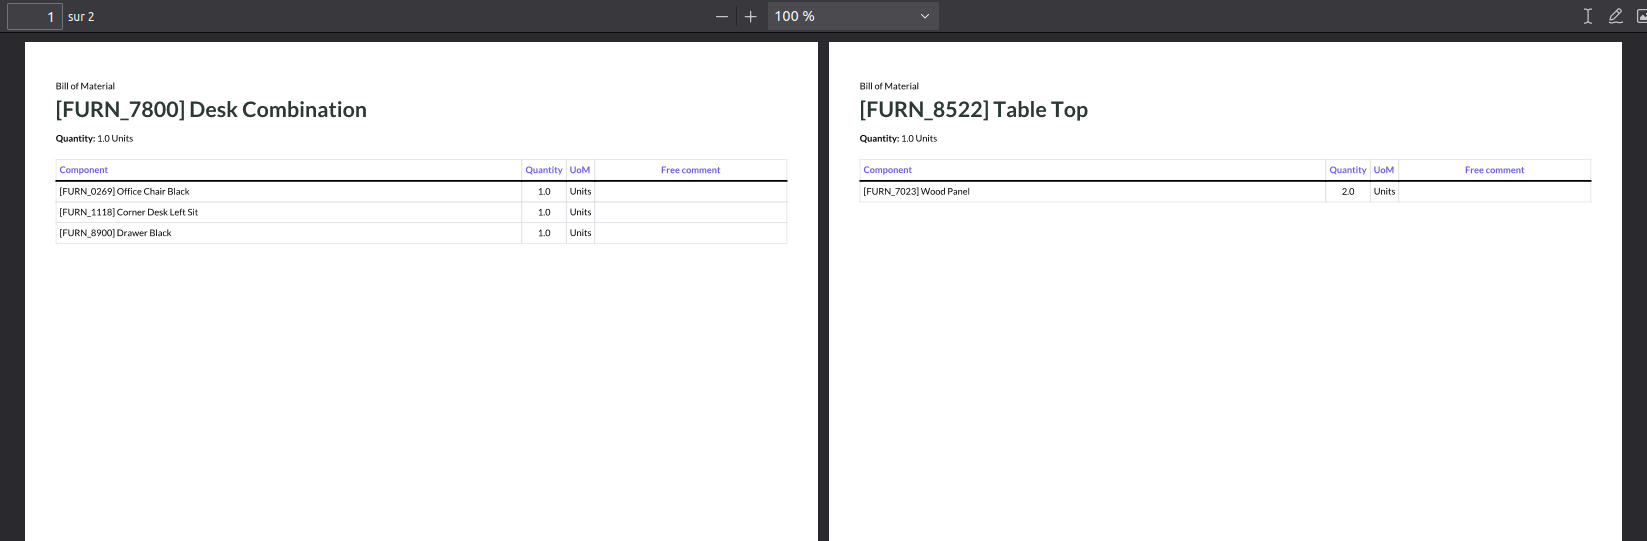
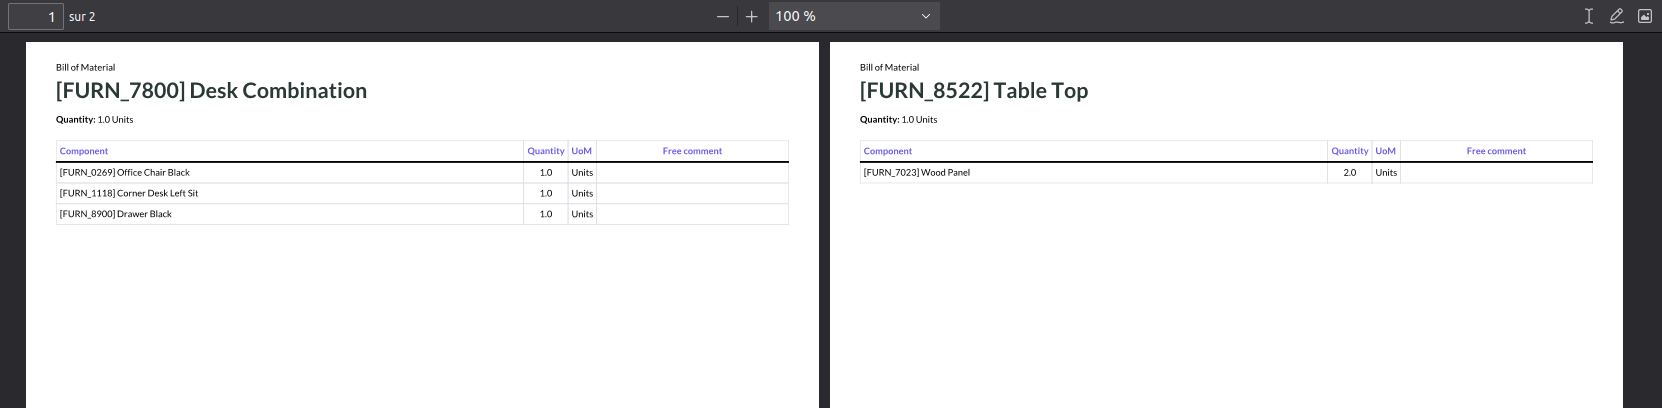
IMP remove custom paperformat

Changed region(s): [[0.0, 0.0, 1.0, 1.0], [0.3097, 0.4706, 0.3716, 0.5588]]

diff --git a/mrp_bom_simple_report/static/description/index.html b/mrp_bom_simple_report/static/description/index.html
@@ -367,7 +367,7 @@ ul.auto-toc {
 !! This file is generated by oca-gen-addon-readme !!
 !! changes will be overwritten.                   !!
 !!!!!!!!!!!!!!!!!!!!!!!!!!!!!!!!!!!!!!!!!!!!!!!!!!!!
-!! source digest: sha256:7881f2fba33177408e347a6bcad52aaf3e38b96134a3032f7b9775e2a49f570c
+!! source digest: sha256:1a4344b8ba7251e08e7d5fc71dc2691e38d29d863d74e14619aed9e08b8d9782
 !!!!!!!!!!!!!!!!!!!!!!!!!!!!!!!!!!!!!!!!!!!!!!!!!!!! -->
 <p><a class="reference external image-reference" href="https://odoo-community.org/page/development-status"><img alt="Beta" src="https://img.shields.io/badge/maturity-Beta-yellow.png" /></a> <a class="reference external image-reference" href="http://www.gnu.org/licenses/agpl-3.0-standalone.html"><img alt="License: AGPL-3" src="https://img.shields.io/badge/licence-AGPL--3-blue.png" /></a> <a class="reference external image-reference" href="https://github.com/OCA/manufacture/tree/16.0/mrp_bom_simple_report"><img alt="OCA/manufacture" src="https://img.shields.io/badge/github-OCA%2Fmanufacture-lightgray.png?logo=github" /></a> <a class="reference external image-reference" href="https://translation.odoo-community.org/projects/manufacture-16-0/manufacture-16-0-mrp_bom_simple_report"><img alt="Translate me on Weblate" src="https://img.shields.io/badge/weblate-Translate%20me-F47D42.png" /></a> <a class="reference external image-reference" href="https://runboat.odoo-community.org/builds?repo=OCA/manufacture&amp;target_branch=16.0"><img alt="Try me on Runboat" src="https://img.shields.io/badge/runboat-Try%20me-875A7B.png" /></a></p>
 <p>Adds a PDF report to print BoM(s) in a very simple way.</p>
@@ -418,6 +418,8 @@ If you spotted it first, help us to smash it by providing a detailed and welcome
 <p>OCA, or the Odoo Community Association, is a nonprofit organization whose
 mission is to support the collaborative development of Odoo features and
 promote its widespread use.</p>
+<p>Current <a class="reference external" href="https://odoo-community.org/page/maintainer-role">maintainer</a>:</p>
+<p><a class="reference external image-reference" href="https://github.com/quentinDupont"><img alt="quentinDupont" src="https://github.com/quentinDupont.png?size=40px" /></a></p>
 <p>This module is part of the <a class="reference external" href="https://github.com/OCA/manufacture/tree/16.0/mrp_bom_simple_report">OCA/manufacture</a> project on GitHub.</p>
 <p>You are welcome to contribute. To learn how please visit <a class="reference external" href="https://odoo-community.org/page/Contribute">https://odoo-community.org/page/Contribute</a>.</p>
 </div>

diff --git a/mrp_bom_simple_report/static/src/scss/mrp_bom_simple_report.scss b/mrp_bom_simple_report/static/src/scss/mrp_bom_simple_report.scss
@@ -5,6 +5,10 @@ $bom-simple-report-grey: #2a3836;
 $bom-simple-report-violet: #6c5ce7;
 
 // SCSS
+.bom-simple-report-page {
+    padding: 2em;
+}
+
 .title-h3 {
     color: $bom-simple-report-grey;
 }

diff --git a/mrp_bom_simple_report/__manifest__.py b/mrp_bom_simple_report/__manifest__.py
@@ -8,6 +8,7 @@
     "version": "16.0.1.0.0",
     "category": "Manufacturing",
     "author": "GRAP, Odoo Community Association (OCA)",
+    "maintainers": ["quentinDupont"],
     "website": "https://github.com/OCA/manufacture",
     "license": "AGPL-3",
     "depends": [
@@ -19,7 +20,6 @@
         ],
     },
     "data": [
-        "data/report_paperformat.xml",
         "report/report_simple_bom.xml",
         "report/ir_actions_report.xml",
     ],

diff --git a/mrp_bom_simple_report/README.rst b/mrp_bom_simple_report/README.rst
@@ -7,7 +7,7 @@ MRP BoM Simple Report
    !! This file is generated by oca-gen-addon-readme !!
    !! changes will be overwritten.                   !!
    !!!!!!!!!!!!!!!!!!!!!!!!!!!!!!!!!!!!!!!!!!!!!!!!!!!!
-   !! source digest: sha256:7881f2fba33177408e347a6bcad52aaf3e38b96134a3032f7b9775e2a49f570c
+   !! source digest: sha256:1a4344b8ba7251e08e7d5fc71dc2691e38d29d863d74e14619aed9e08b8d9782
    !!!!!!!!!!!!!!!!!!!!!!!!!!!!!!!!!!!!!!!!!!!!!!!!!!!!
 
 .. |badge1| image:: https://img.shields.io/badge/maturity-Beta-yellow.png
@@ -74,6 +74,14 @@ This module is maintained by the OCA.
 OCA, or the Odoo Community Association, is a nonprofit organization whose
 mission is to support the collaborative development of Odoo features and
 promote its widespread use.
+
+.. |maintainer-quentinDupont| image:: https://github.com/quentinDupont.png?size=40px
+    :target: https://github.com/quentinDupont
+    :alt: quentinDupont
+
+Current `maintainer <https://odoo-community.org/page/maintainer-role>`__:
+
+|maintainer-quentinDupont| 
 
 This module is part of the `OCA/manufacture <https://github.com/OCA/manufacture/tree/16.0/mrp_bom_simple_report>`_ project on GitHub.
 
